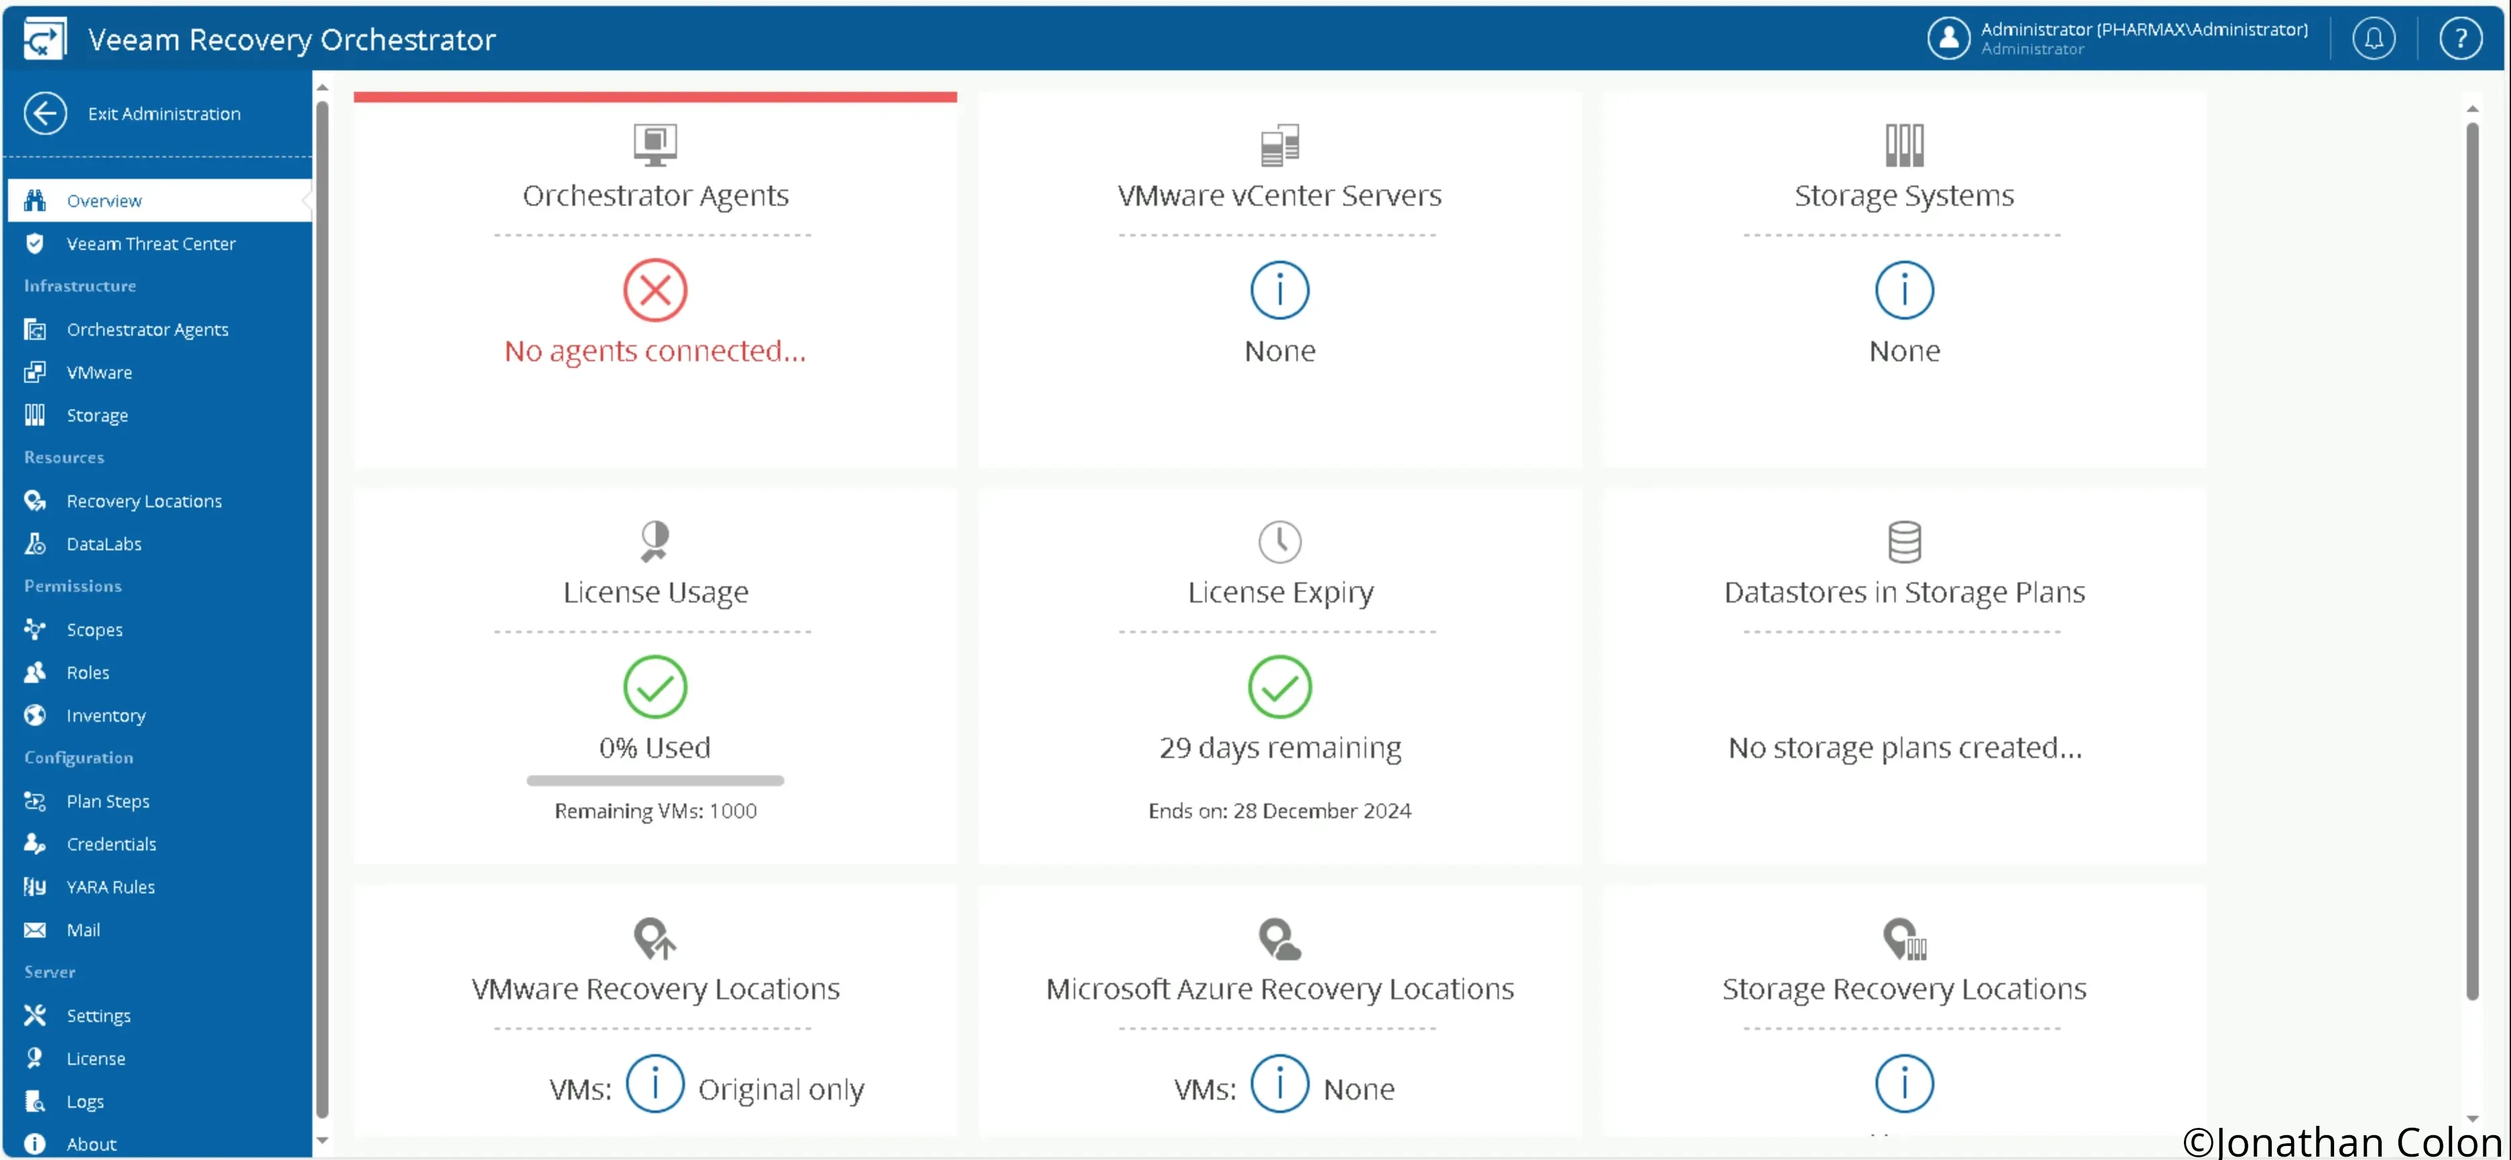
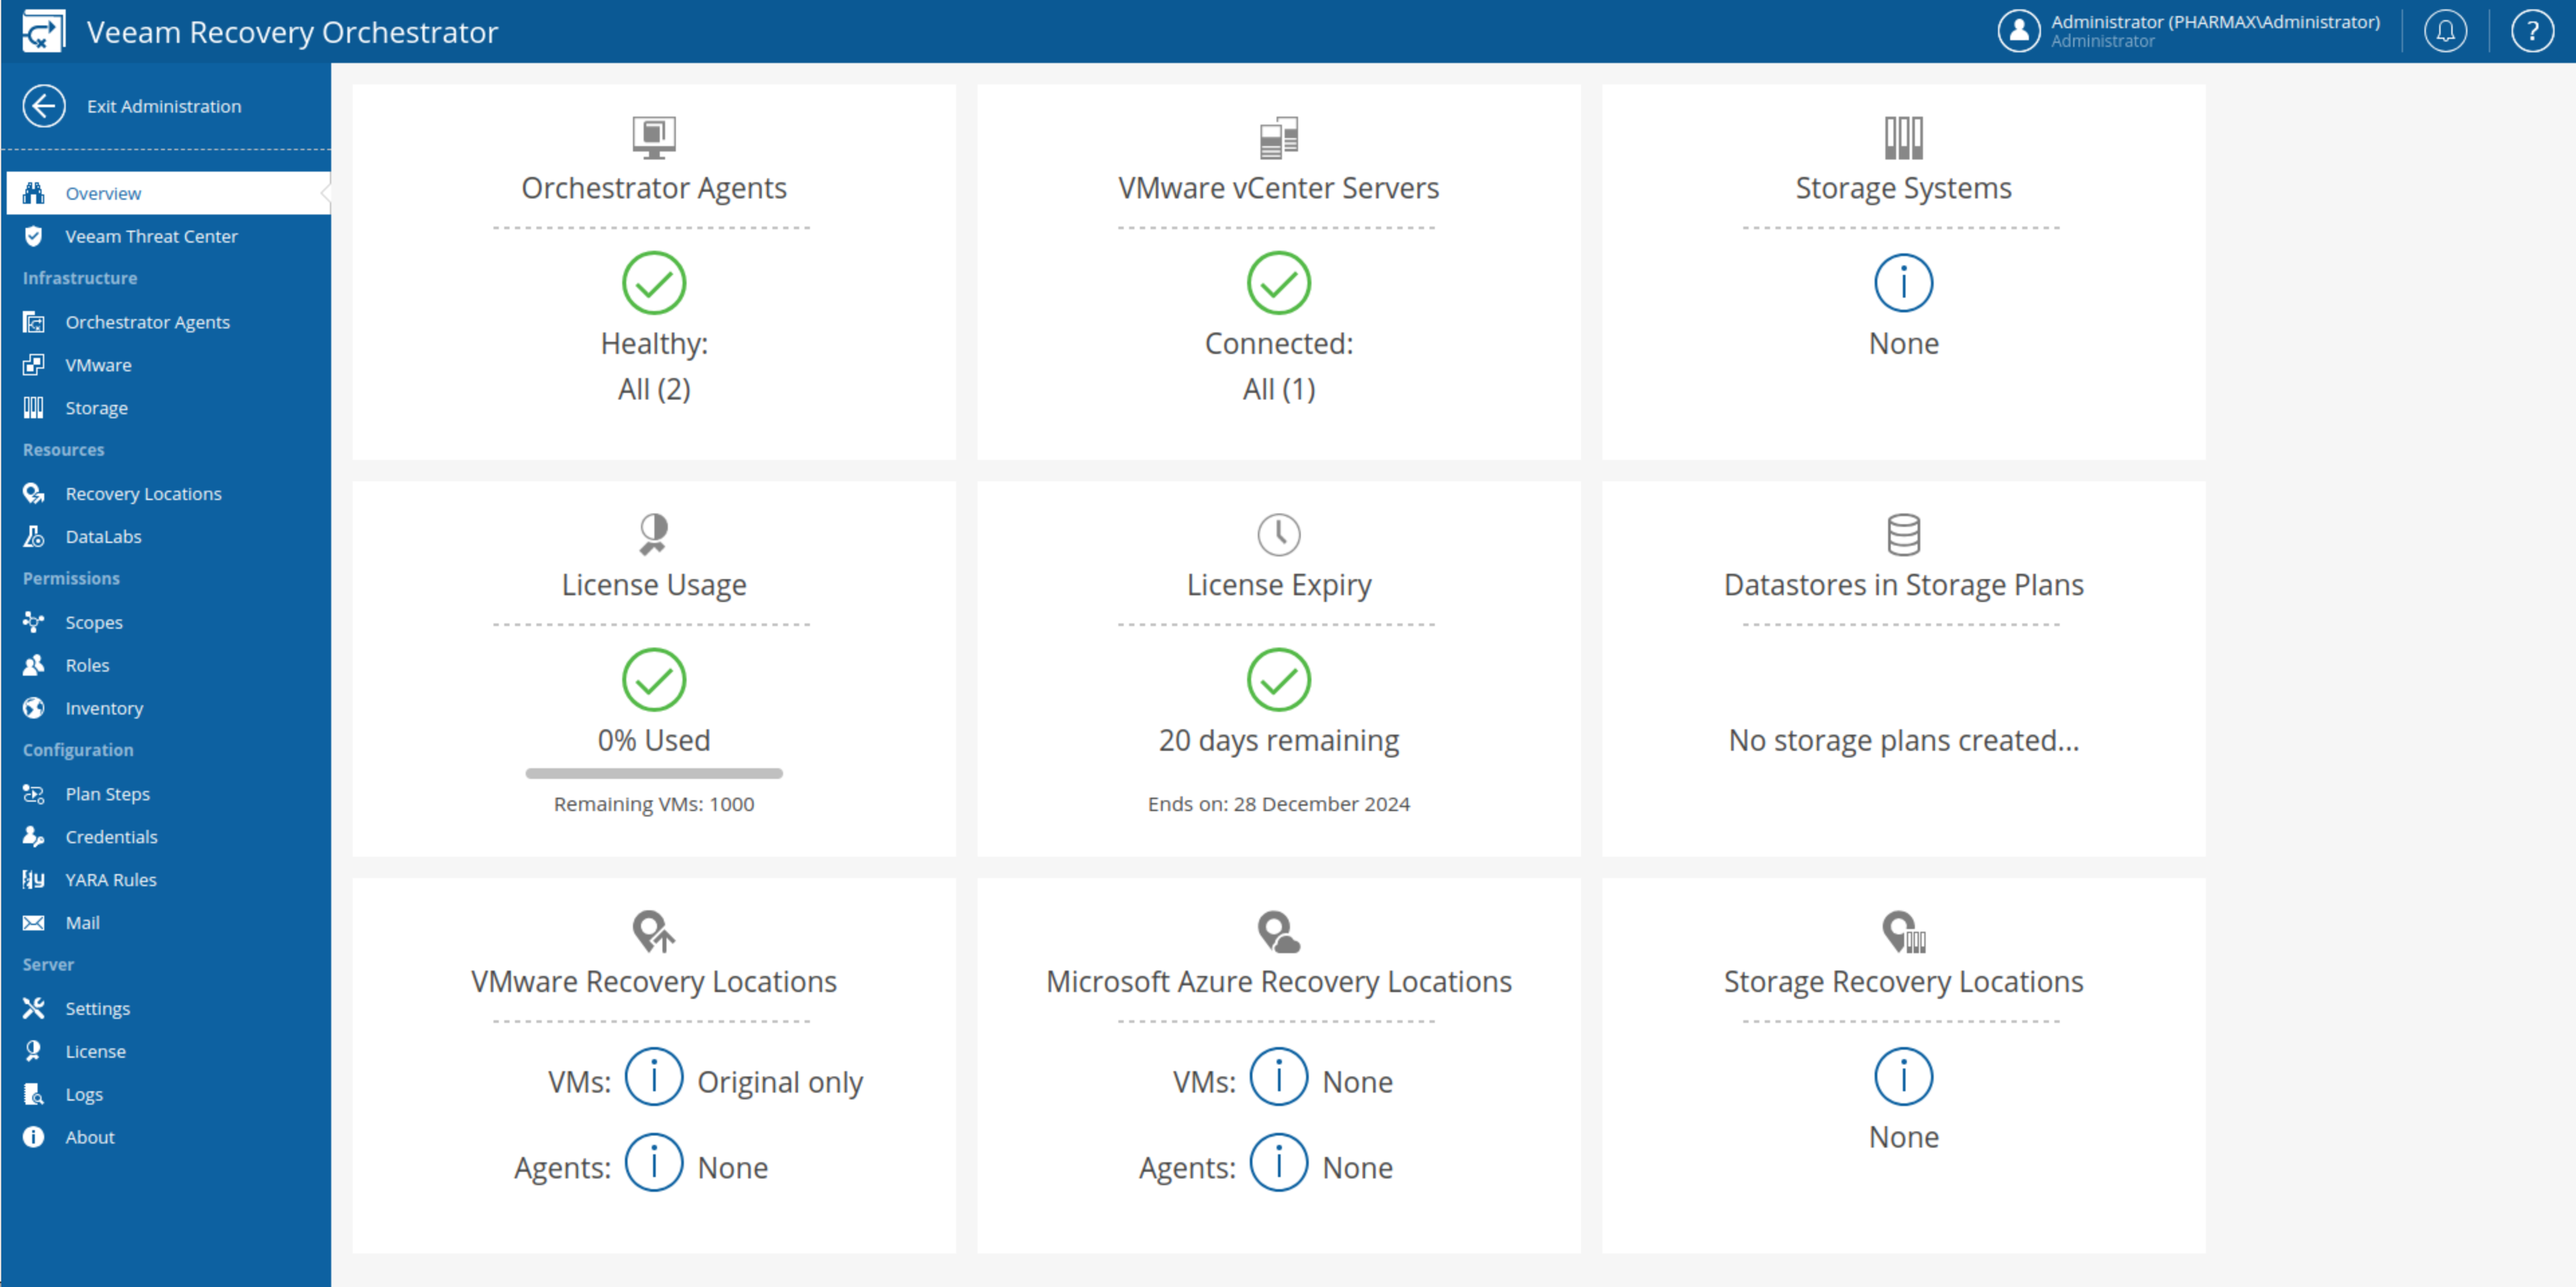
veeam-vro-initial-config post

diff --git a/content/posts/veeam-vro-initial-config.es.md b/content/posts/veeam-vro-initial-config.es.md
@@ -2,7 +2,7 @@
 title: 'Veeam: Configuración inicial de Recovery Orchestrator'
 date: '2024-12-03T00:00:00-00:00'
 author: 'Jonathan Colon'
-draft: true
+draft: false
 tags:
     - VEEAM
     - Powershell
@@ -45,27 +45,59 @@ Finalizado este proceso presionamos `Next`.
 
 ![vro_install_07](/img/2024/vro_initial_config/vbo_initial_config_07.webp)
 
-El próximo paso es instalar el agente de VRO en el servidor de `Backup & Replication`. Para esto presionamos `Deploy Orchestrator agent`.
+El próximo paso es instalar el agente de VRO en el servidor de `Veeam Backup & Replication (VBR)`. Para esto presionamos `Deploy Orchestrator agent`.
 
 ![vro_install_08](/img/2024/vro_initial_config/vbo_initial_config_08.webp)
 
-En esta pantalla 
+En esta pantalla presionamos `Add`.
 
 ![vro_install_09](/img/2024/vro_initial_config/vbo_initial_config_09.webp)
+
+Luego especificamos los parámetros de conexión del servidor de VBR. Si es necesario creamos una nueva credencial para autenticar al servidor de VBR. Finalmente presionamos `Add` para añadir el servidor.
+
 ![vro_install_10](/img/2024/vro_initial_config/vbo_initial_config_10.webp)
+
+Una ves hayamos añadido el servidor de VBR presionamos `Apply`.
+
 ![vro_install_11](/img/2024/vro_initial_config/vbo_initial_config_11.webp)
+
+El próximo paso es añadir la infraestructura de VMware presionando `Connect vCenter Server`
+
 ![vro_install_12](/img/2024/vro_initial_config/vbo_initial_config_12.webp)
+
+En esta pantalla presionamos `Add`.
+
 ![vro_install_13](/img/2024/vro_initial_config/vbo_initial_config_13.webp)
+
+Luego especificamos los parámetros de conexión del servidor de vCenter.
+
 ![vro_install_14](/img/2024/vro_initial_config/vbo_initial_config_14.webp)
+
+Si es necesario creamos una nueva credencial para autenticar al servidor.
+
 ![vro_install_15](/img/2024/vro_initial_config/vbo_initial_config_15.webp)
+
 ![vro_install_16](/img/2024/vro_initial_config/vbo_initial_config_16.webp)
+
+Finalmente presionamos `Add` para añadir el servidor.
+
 ![vro_install_17](/img/2024/vro_initial_config/vbo_initial_config_17.webp)
 
-![vro_install_18](/img/2024/vro_initial_config/vbo_initial_config_18.webp)
-![vro_install_19](/img/2024/vro_initial_config/vbo_initial_config_19.webp)
-![vro_install_20](/img/2024/vro_initial_config/vbo_initial_config_20.webp)
-![vro_install_21](/img/2024/vro_initial_config/vbo_initial_config_21.webp)
+Una ves hayamos añadido el servidor de vCenter presionamos `Apply` para guardar los cambios.
 
+![vro_install_18](/img/2024/vro_initial_config/vbo_initial_config_18.webp)
+
+En un laboratorio futuro añadiremos un `Storage System` pero para propósitos de este laboratorio presionamos `Next`.
+
+![vro_install_19](/img/2024/vro_initial_config/vbo_initial_config_19.webp)
+
+En esta pantalla podemos validar los parámetros que utilizamos para el proceso inicial de configuración y presionamos `Finish` para guardar los cambios y finalmente configura el servidor de VRO!
+
+![vro_install_20](/img/2024/vro_initial_config/vbo_initial_config_20.webp)
+
+Finalmente, podemos ver la pantalla de `Overview` que refleja la infraestructura que añadimos utilizando el `Initial Configuration Wizard`.
+
+![vro_install_21](/img/2024/vro_initial_config/vbo_initial_config_21.webp)
 
 Espero que este laboratorio te haya gustado y que sea de utilidad en su jornada profesional.
 
